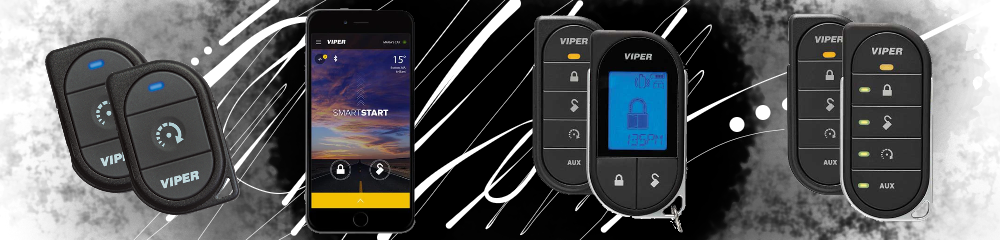
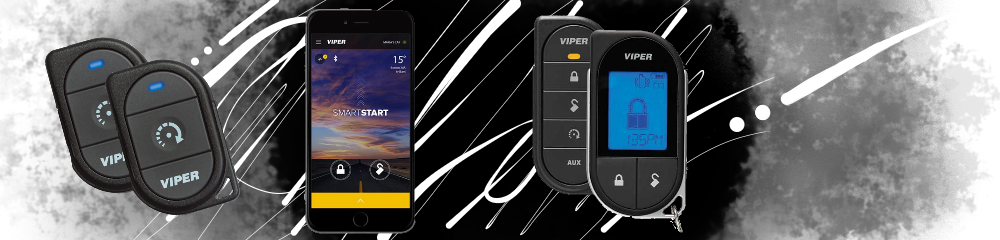
updates and new images

Changed region(s): [[0.713, 0.0, 0.992, 1.0], [0.961, 0.8458, 0.992, 0.875]]

diff --git a/index.html b/index.html
@@ -71,7 +71,7 @@
         </div>
     </nav>
     <div class="text-center">
-        <img src="images/iasBanner.png" alt="bannerWithDevices" class=" w-100 border-top border-bottom border-5" style="border-color:#484a4a !important;">
+        <img src="images/iasBanner_wCallOut2.png" alt="bannerWithDevices" class=" w-100 border-top border-bottom border-5" style="border-color:#484a4a !important;">
     </div>
     <div class="container">
         <div style="text-align:center;">
@@ -107,30 +107,13 @@
                         <div class="collapse" id="oneWayDetail1">
                             <div class="card-body">
                                 <p>
-                                    Lorem ipsum dolor sit amet, consectetur adipiscing elit, sed do eiusmod
-                                    tempor incididunt ut labore et dolore magna aliqua. Sed viverra tellus in hac
-                                    habitasse platea. Mattis rhoncus urna neque viverra justo. Non nisi est sit
-                                    amet facilisis magna etiam. Nunc non blandit massa enim nec. Consectetur
-                                    purus ut faucibus pulvinar elementum integer enim. Amet nisl purus in mollis
-                                    nunc sed id semper. Integer feugiat scelerisque varius morbi enim. Lorem ipsum
-                                    dolor sit amet consectetur adipiscing elit. Mattis vulputate enim nulla aliquet
-                                    porttitor lacus luctus. Eu mi bibendum neque egestas congue. Sagittis purus sit
-                                    amet volutpat consequat mauris.                               
-                                </p>
-                                <p>
-                                    Leo a diam sollicitudin tempor id eu. Mattis enim ut tellus elementum sagittis.
-                                    Venenatis lectus magna fringilla urna porttitor rhoncus dolor purus non. At urna
-                                    condimentum mattis pellentesque id nibh tortor id aliquet.
+                                    The convenience of remote start in one of the smallest Viper remotes ever.                               
                                 </p>
                                 <ul>
-                                    <li>Lorem ipsum dolor sit amet</li>
-                                    <li>Lorem ipsum dolor sit amet</li>
-                                    <li>Lorem ipsum dolor sit amet</li>
-                                    <li>Lorem ipsum dolor sit amet</li>
-                                    <li>Lorem ipsum dolor sit amet</li>
-                                    <li>Lorem ipsum dolor sit amet</li>
-                                    <li>Lorem ipsum dolor sit amet</li>
-                                    <li>Lorem ipsum dolor sit amet</li>
+                                    <li>2 1-button 1-Way</li>
+                                    <li>Up to 1/4 Mile</li>                                    
+                                    <li>SmartStart Compatible</li>
+                                    <li>Domelight Supervision</li>
                                 </ul>
                             </div>
                         </div>
@@ -148,30 +131,17 @@
                         <div class="collapse" id="oneWayDetail2">
                             <div class="card-body">
                                 <p>
-                                    Lorem ipsum dolor sit amet, consectetur adipiscing elit, sed do eiusmod
-                                    tempor incididunt ut labore et dolore magna aliqua. Sed viverra tellus in hac
-                                    habitasse platea. Mattis rhoncus urna neque viverra justo. Non nisi est sit
-                                    amet facilisis magna etiam. Nunc non blandit massa enim nec. Consectetur
-                                    purus ut faucibus pulvinar elementum integer enim. Amet nisl purus in mollis
-                                    nunc sed id semper. Integer feugiat scelerisque varius morbi enim. Lorem ipsum
-                                    dolor sit amet consectetur adipiscing elit. Mattis vulputate enim nulla aliquet
-                                    porttitor lacus luctus. Eu mi bibendum neque egestas congue. Sagittis purus sit
-                                    amet volutpat consequat mauris.                               
-                                </p>
-                                <p>
-                                    Leo a diam sollicitudin tempor id eu. Mattis enim ut tellus elementum sagittis.
-                                    Venenatis lectus magna fringilla urna porttitor rhoncus dolor purus non. At urna
-                                    condimentum mattis pellentesque id nibh tortor id aliquet.
+                                    Start your engine from up to a quarter of a mile away with this Enhanced Viper
+                                    remote start system. This system comes with two 4-button remotes and several features,
+                                    such as keyless entry and SmartStart compatibility.                               
                                 </p>
                                 <ul>
-                                    <li>Lorem ipsum dolor sit amet</li>
-                                    <li>Lorem ipsum dolor sit amet</li>
-                                    <li>Lorem ipsum dolor sit amet</li>
-                                    <li>Lorem ipsum dolor sit amet</li>
-                                    <li>Lorem ipsum dolor sit amet</li>
-                                    <li>Lorem ipsum dolor sit amet</li>
-                                    <li>Lorem ipsum dolor sit amet</li>
-                                    <li>Lorem ipsum dolor sit amet</li>
+                                    <li>2 4-button 1-Way</li>
+                                    <li>Up to 1/4 Mile</li>
+                                    <li>Keyless Entry</li>
+                                    <li>SmartStart Compatible</li>
+                                    <li>66-Bit Encryption</li>
+                                    <li>2 Auxiliary Channels</li>
                                 </ul>
                             </div>
                         </div>
@@ -212,30 +182,17 @@
                         <div class="collapse" id="twoWayDetail1">
                             <div class="card-body">
                                 <p>
-                                    Lorem ipsum dolor sit amet, consectetur adipiscing elit, sed do eiusmod
-                                    tempor incididunt ut labore et dolore magna aliqua. Sed viverra tellus in hac
-                                    habitasse platea. Mattis rhoncus urna neque viverra justo. Non nisi est sit
-                                    amet facilisis magna etiam. Nunc non blandit massa enim nec. Consectetur
-                                    purus ut faucibus pulvinar elementum integer enim. Amet nisl purus in mollis
-                                    nunc sed id semper. Integer feugiat scelerisque varius morbi enim. Lorem ipsum
-                                    dolor sit amet consectetur adipiscing elit. Mattis vulputate enim nulla aliquet
-                                    porttitor lacus luctus. Eu mi bibendum neque egestas congue. Sagittis purus sit
-                                    amet volutpat consequat mauris.                               
-                                </p>
-                                <p>
-                                    Leo a diam sollicitudin tempor id eu. Mattis enim ut tellus elementum sagittis.
-                                    Venenatis lectus magna fringilla urna porttitor rhoncus dolor purus non. At urna
-                                    condimentum mattis pellentesque id nibh tortor id aliquet.
+                                    Winner of the CES Innovations Award, Responder One offers one button remote start
+                                    with range of up to one mile – plus LED confirmation! It’s our smallest 2-way
+                                    remote starter ever. Includes two ultra-miniature 1-button remotes.                               
                                 </p>
                                 <ul>
-                                    <li>Lorem ipsum dolor sit amet</li>
-                                    <li>Lorem ipsum dolor sit amet</li>
-                                    <li>Lorem ipsum dolor sit amet</li>
-                                    <li>Lorem ipsum dolor sit amet</li>
-                                    <li>Lorem ipsum dolor sit amet</li>
-                                    <li>Lorem ipsum dolor sit amet</li>
-                                    <li>Lorem ipsum dolor sit amet</li>
-                                    <li>Lorem ipsum dolor sit amet</li>
+                                    <li>LED</li>
+                                    <li>Parking Light Flash</li>
+                                    <li>1 2-Way with 1 mile range and 1 1-Way with 2,000 ft. range</li>
+                                    <li>Up to 1 Mile</li>
+                                    <li>SmartStart Compatible</li>
+                                    <li>SuperCode™ Encryption</li>
                                 </ul>
                             </div>
                         </div>
@@ -253,30 +210,20 @@
                         <div class="collapse" id="twoWayDetail2">
                             <div class="card-body">
                                 <p>
-                                    Lorem ipsum dolor sit amet, consectetur adipiscing elit, sed do eiusmod
-                                    tempor incididunt ut labore et dolore magna aliqua. Sed viverra tellus in hac
-                                    habitasse platea. Mattis rhoncus urna neque viverra justo. Non nisi est sit
-                                    amet facilisis magna etiam. Nunc non blandit massa enim nec. Consectetur
-                                    purus ut faucibus pulvinar elementum integer enim. Amet nisl purus in mollis
-                                    nunc sed id semper. Integer feugiat scelerisque varius morbi enim. Lorem ipsum
-                                    dolor sit amet consectetur adipiscing elit. Mattis vulputate enim nulla aliquet
-                                    porttitor lacus luctus. Eu mi bibendum neque egestas congue. Sagittis purus sit
-                                    amet volutpat consequat mauris.                               
-                                </p>
-                                <p>
-                                    Leo a diam sollicitudin tempor id eu. Mattis enim ut tellus elementum sagittis.
-                                    Venenatis lectus magna fringilla urna porttitor rhoncus dolor purus non. At urna
-                                    condimentum mattis pellentesque id nibh tortor id aliquet.
+                                    Viper's elegant new Responder LE transceivers mark a giant leap forward in 21st
+                                    century remote start, and an evolutionary milestone for the keychain remote. These
+                                    slender & sophisticated 2-Way remote controls feature a clean sleek ergonomic
+                                    industrial design, made to fit the user's hand comfortably, enabling effortless
+                                    and intuitive single-handed operation as Brilliant LEDs confirm your commands.
                                 </p>
                                 <ul>
-                                    <li>Lorem ipsum dolor sit amet</li>
-                                    <li>Lorem ipsum dolor sit amet</li>
-                                    <li>Lorem ipsum dolor sit amet</li>
-                                    <li>Lorem ipsum dolor sit amet</li>
-                                    <li>Lorem ipsum dolor sit amet</li>
-                                    <li>Lorem ipsum dolor sit amet</li>
-                                    <li>Lorem ipsum dolor sit amet</li>
-                                    <li>Lorem ipsum dolor sit amet</li>
+                                    <li>Brilliant LEDs</li>
+                                    <li>Rechargeable Battery</li>
+                                    <li>1 Responder LE 2-Way and 1 5-button 1-Way</li>
+                                    <li>Up to 1 Mile Range</li>
+                                    <li>SuperCode™ Encryption</li>
+                                    <li>Domelight Supervision</li>
+                                    <li>3 Auxiliary Channels</li>
                                 </ul>
                             </div>
                         </div>
@@ -294,30 +241,21 @@
                         <div class="collapse" id="twoWayDetail3">
                             <div class="card-body">
                                 <p>
-                                    Lorem ipsum dolor sit amet, consectetur adipiscing elit, sed do eiusmod
-                                    tempor incididunt ut labore et dolore magna aliqua. Sed viverra tellus in hac
-                                    habitasse platea. Mattis rhoncus urna neque viverra justo. Non nisi est sit
-                                    amet facilisis magna etiam. Nunc non blandit massa enim nec. Consectetur
-                                    purus ut faucibus pulvinar elementum integer enim. Amet nisl purus in mollis
-                                    nunc sed id semper. Integer feugiat scelerisque varius morbi enim. Lorem ipsum
-                                    dolor sit amet consectetur adipiscing elit. Mattis vulputate enim nulla aliquet
-                                    porttitor lacus luctus. Eu mi bibendum neque egestas congue. Sagittis purus sit
-                                    amet volutpat consequat mauris.                               
-                                </p>
-                                <p>
-                                    Leo a diam sollicitudin tempor id eu. Mattis enim ut tellus elementum sagittis.
-                                    Venenatis lectus magna fringilla urna porttitor rhoncus dolor purus non. At urna
-                                    condimentum mattis pellentesque id nibh tortor id aliquet.
+                                    Responder LC3 – the 3rd generation of Responder, complete with SST One Mile
+                                    Range, the new Priority icons and text seen on a 20% larger liquid-crystal display,
+                                    an onboard lithium-ion rechargeable battery with micro-USB recharging - all in the
+                                    slimmest display remote on the market.                               
                                 </p>
                                 <ul>
-                                    <li>Lorem ipsum dolor sit amet</li>
-                                    <li>Lorem ipsum dolor sit amet</li>
-                                    <li>Lorem ipsum dolor sit amet</li>
-                                    <li>Lorem ipsum dolor sit amet</li>
-                                    <li>Lorem ipsum dolor sit amet</li>
-                                    <li>Lorem ipsum dolor sit amet</li>
-                                    <li>Lorem ipsum dolor sit amet</li>
-                                    <li>Lorem ipsum dolor sit amet</li>
+                                    <li>Priority Icon Map with LCD Display</li>
+                                    <li>Rechargeable battery</li>
+                                    <li>1 Responder LC3 2-Way and 1 5-button 1-Way</li>
+                                    <li>Up to 1 Mile Range</li>
+                                    <li>Keyless Entry</li>
+                                    <li>Trunk Pop</li>
+                                    <li>SuperCode™ Encryption</li>
+                                    <li>Domelight Supervision</li>
+                                    <li>4 Auxiliary Channels</li>
                                 </ul>
                             </div>
                         </div>
